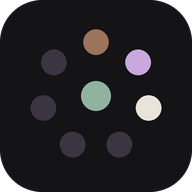
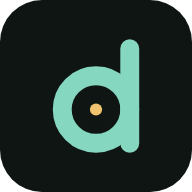
2.4.1: Neues App-Symbol (d-Monogramm), Startbildschirm-Farbe passend zum Fokus-Design
Claude-Session: https://claude.ai/code/session_01DjSyNyk6apko3zwwjbvQgw

diff --git a/app.js b/app.js
@@ -633,7 +633,7 @@
       <div class="opt"><label class="lbl" for="wLines">Markierungen in kg</label><input type="text" id="wLines" inputmode="decimal" value="${weightLines().map(C.fmtW).join(' ')}" data-change="weightLines" placeholder="z. B. 99 92 88"></div>
       <div class="opt"><label class="lbl" for="hCm">Körpergröße in cm</label><input type="text" id="hCm" inputmode="decimal" value="${S.settings.heightCm || ''}" data-change="height" placeholder="cm"></div></div>
       <p class="faint small" id="persist" style="margin:18px 0 4px">…</p>
-      <p class="faint small" style="margin:0">Dein Leben 2.4.0</p>`;
+      <p class="faint small" style="margin:0">Dein Leben 2.4.1</p>`;
   }
   const DEFAULTS = { fontScale: 'normal', heuteView: 'tiles', trainStart: 'ask', weightRange: 'auto', backupDays: 7 };
   const iconOf = k => `<span class="sn"><svg viewBox="0 0 24 24" width="22" height="22" fill="none" stroke="currentColor" stroke-width="1.8" stroke-linecap="round" stroke-linejoin="round" aria-hidden="true">${ICONS[k]}</svg></span>`;

diff --git a/sw.js b/sw.js
@@ -1,5 +1,5 @@
 /* Dein Leben – Offline-Cache. Bei jeder neuen Version VERSION erhöhen. */
-const VERSION = 'dein-leben-v2.4.0';
+const VERSION = 'dein-leben-v2.4.1';
 const FILES = ['./', 'index.html', 'styles.css', 'core.js', 'app.js', 'manifest.webmanifest', 'icon-192.png', 'icon-512.png', 'icon-maskable-512.png'];
 self.addEventListener('install', e => {
   e.waitUntil(caches.open(VERSION).then(c => c.addAll(FILES)).then(() => self.skipWaiting()));

diff --git a/index.html b/index.html
@@ -3,7 +3,7 @@
 <head>
 <meta charset="utf-8">
 <meta name="viewport" content="width=device-width, initial-scale=1, viewport-fit=cover">
-<meta name="theme-color" content="#141316">
+<meta name="theme-color" content="#0F1513">
 <meta name="color-scheme" content="dark light">
 <title>Dein Leben</title>
 <link rel="manifest" href="manifest.webmanifest">
